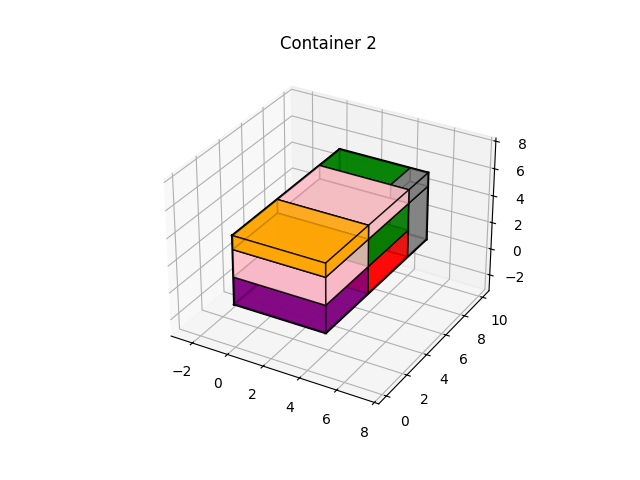
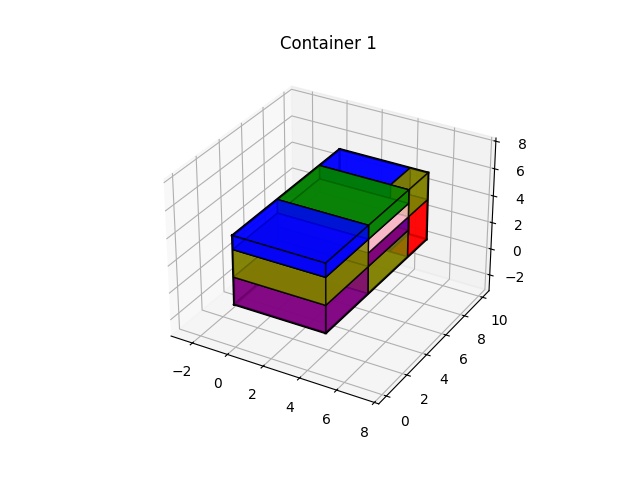
Change output message

Changed region(s): [[0.3438, 0.3125, 0.6875, 0.6562], [0.5625, 0.0625, 0.5938, 0.0938]]

diff --git a/app.py b/app.py
@@ -55,13 +55,13 @@ if uploaded_file is not None:
     packer = Packer()
     #  init bin
     for i in range(len(bins)):
-        box = Bin('Bin{}'.format(str(i+1)), bins[i], 100, 0, 0)
+        box = Bin('Container {}'.format(str(i+1)), bins[i], 100, 0, 0)
         packer.addBin(box)
 
     #  add item
     for i in range(len(items)):
         packer.addItem(Item(
-            partno='Box-{}'.format(str(i+1)),
+            partno='{}'.format(str(i+1)),
             name='test{}'.format(str(i+1)),
             typeof='cube',
             WHD=items[i],
@@ -90,6 +90,7 @@ if uploaded_file is not None:
     for idx, b in enumerate(packer.bins):
         output += f"** {b.string()} **\n"
         bins_used += 1
+        current_bin_weight = 0
         output += "***************************************************\n"
         output += "FITTED ITEMS:\n"
         output += "***************************************************\n"
@@ -98,13 +99,16 @@ if uploaded_file is not None:
         volume_f = 0
         unfitted_name = ''
         for item in b.items:
-            output += f"Package no. : {item.partno}, "
-            output += f"Dimensions : {item.width} * {item.height} * {item.depth}\n"
+            current_bin_weight += float(item.weight)
+            output += f"Package no: {item.partno}, "
+            output += f"Dimensions : {item.width} x {item.height} x {item.depth}, "
+            output += f"Weight : {item.weight}\n"
             volume_t += float(item.width) * \
                 float(item.height) * float(item.depth)
 
-        output += f'space utilization : {round(volume_t / float(volume) * 100, 2)}%\n'
-        output += f'residual volume : {float(volume) - volume_t}\n'
+        output += f'Space utilization : {round(volume_t / float(volume) * 100, 2)}%\n'
+        output += f'Total weight of items: {current_bin_weight}\n'
+        output += f'Residual volume : {float(volume) - volume_t}\n'
         output += "***************************************************\n"
         # draw results
         painter = Painter(b)
@@ -123,10 +127,14 @@ if uploaded_file is not None:
     for item in packer.unfit_items:
         volume_f += float(item.width) * \
             float(item.height) * float(item.depth)
-        unfitted_name += f'{item.partno},'
+        unfitted_name += f'{item.partno}, '
+    if len(packer.unfit_items) == 0:
+        unfitted_name = "None"
+    else:
+        unfitted_name = unfitted_name[:-2]
     output += "***************************************************\n"
-    output += f'unpacked items : {unfitted_name}\n'
-    output += f'unpacked items volume : {volume_f}\n'
+    output += f'Unpacked package no: {unfitted_name}\n'
+    output += f'Unpacked package volume : {volume_f}\n'
 
     # Print the entire output
     print(output)
